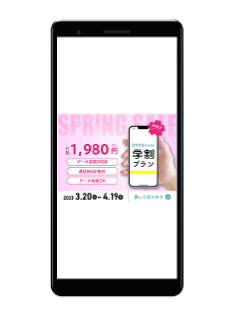
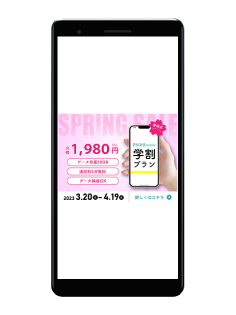
coding

Changed region(s): [[0.2076, 0.0571, 0.8008, 0.9429]]

diff --git a/index.html b/index.html
@@ -99,7 +99,7 @@
             <div data-aos="fade-up" data-aos-duration="3000">
                 <div class="works01__sp">
                     <div class="works01__picture">
-                        <img src="./images/works1.png" alt="スマホプラン広告">
+                        <img src="./images/works1_under.png" alt="スマホプラン広告">
                     </div>
                     <a class="works01__title" href="./works/works1.html">01.スマホプラン広告</a>
                 </div>
@@ -122,7 +122,7 @@
             <div data-aos="fade-up" data-aos-duration="3000">
                 <div class="works01__sp">
                     <div class="works01__picture">
-                        <img src="./images/works2.png" alt="旅行支援アプリ広告">
+                        <img src="./images/works2_under.png" alt="旅行支援アプリ広告">
                     </div>
                     <a class="works01__title" href="./works/works2.html">02.旅行支援アプリ広告</a>
                 </div>
